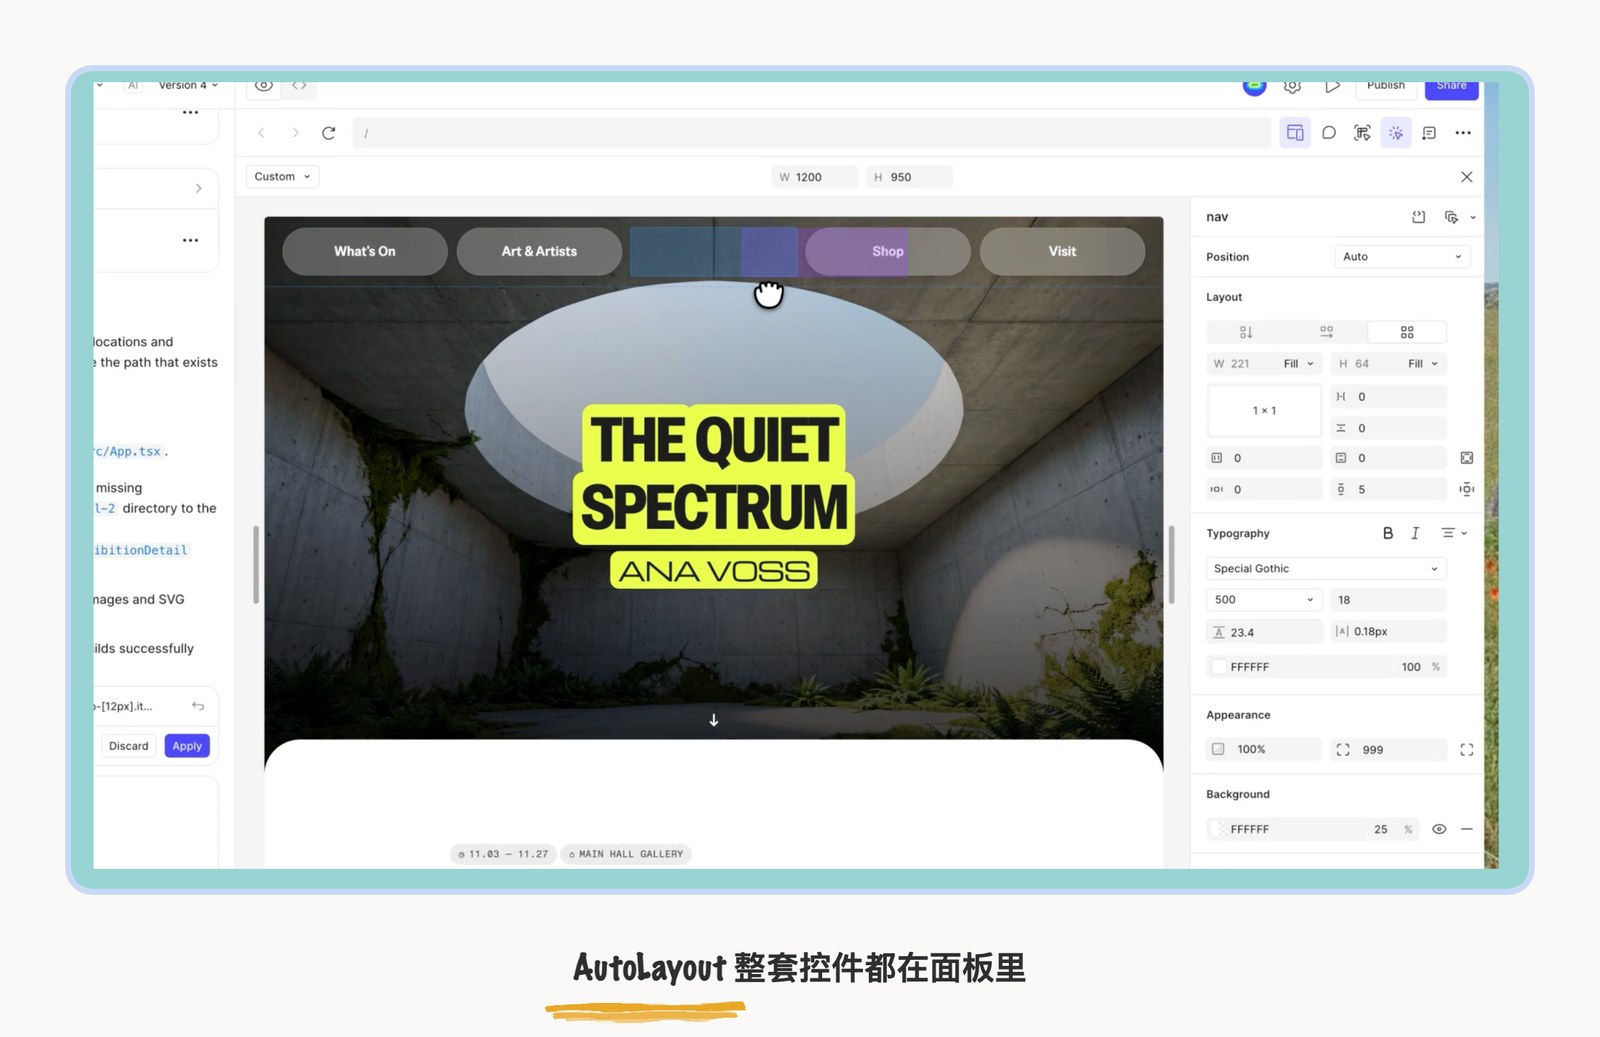
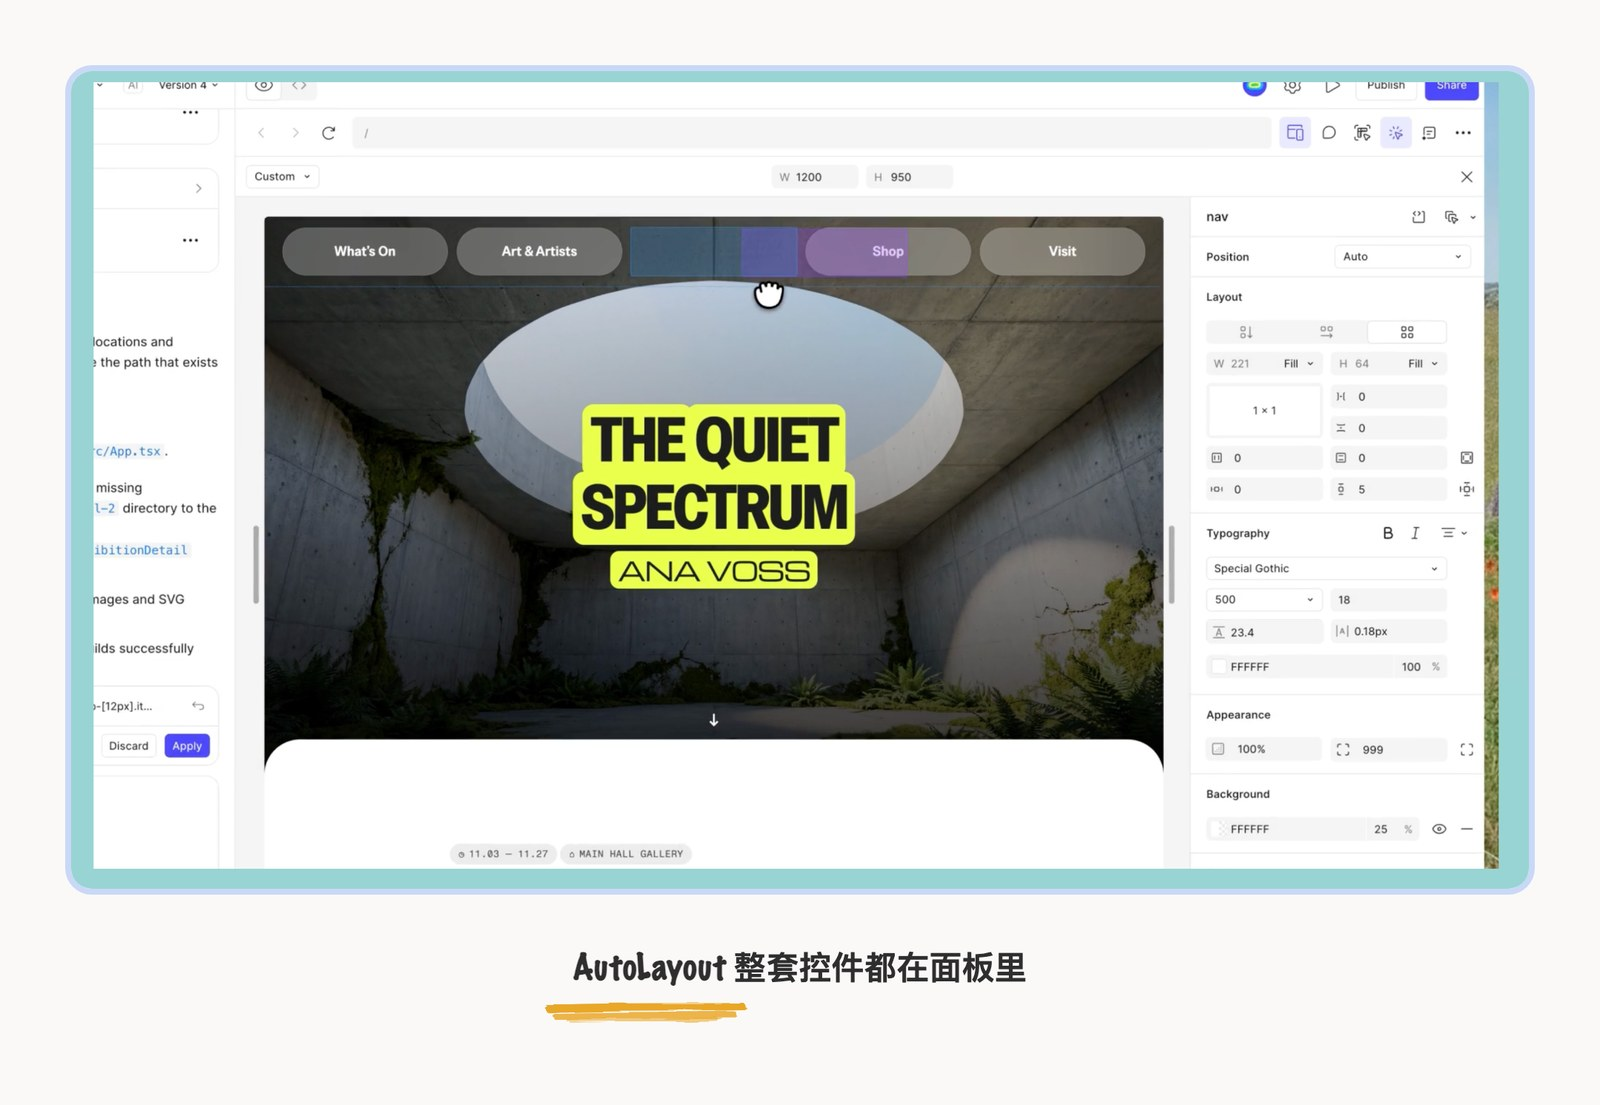
官方截图手账框:图注下方留白加大

diff --git a/docs/writing/article-figma-make-properties-panel.html b/docs/writing/article-figma-make-properties-panel.html
@@ -487,7 +487,7 @@
 <div class="section-head"><span class="icon-badge" style="background: rgba(46, 134, 184, 0.1);"><svg fill="none" height="32" viewBox="0 0 24 24" width="32" xmlns="http://www.w3.org/2000/svg"><path clip-rule="evenodd" d="M11.0257 7.12C10.0573 6.76317 9.25184 6.4664 8.6236 6.33307C7.99692 6.20007 7.2628 6.1658 6.7143 6.7143C6.16579 7.26281 6.20007 7.99692 6.33307 8.6236C6.46639 9.25185 6.76317 10.0573 7.11999 11.0257L8.41465 14.5398C8.58695 15.0077 8.74432 15.435 8.91702 15.7509C9.10197 16.0893 9.395 16.4715 9.91716 16.5861C10.4393 16.7008 10.8655 16.4766 11.1753 16.2469C11.4645 16.0324 11.7864 15.7104 12.1389 15.3578L12.3975 15.0992L14.3428 17.0445C14.458 17.1596 14.5694 17.271 14.6705 17.3592C14.7808 17.4555 14.9187 17.5604 15.0964 17.634C15.4697 17.7887 15.8892 17.7887 16.2625 17.634C16.4402 17.5604 16.5781 17.4555 16.6884 17.3592C16.7895 17.271 16.9009 17.1596 17.0161 17.0445L17.0445 17.0161C17.1596 16.901 17.271 16.7895 17.3592 16.6885C17.4555 16.5781 17.5604 16.4402 17.634 16.2625C17.7887 15.8892 17.7887 15.4697 17.634 15.0964C17.5604 14.9187 17.4554 14.7808 17.3592 14.6705C17.271 14.5694 17.1596 14.458 17.0445 14.3428L15.0992 12.3975L15.3578 12.1389C15.7104 11.7864 16.0324 11.4645 16.2469 11.1753C16.4766 10.8656 16.7008 10.4393 16.5861 9.91717C16.4715 9.39501 16.0893 9.10197 15.7509 8.91702C15.435 8.74433 15.0077 8.58696 14.5398 8.41465L11.0257 7.12ZM7.75487 7.83859C7.76267 7.78024 7.77422 7.77528 7.77496 7.77496C7.77527 7.77422 7.78024 7.76268 7.83858 7.75487C7.9187 7.74415 8.06358 7.74763 8.3122 7.80039C8.82107 7.90839 9.52357 8.16514 10.566 8.5492L13.9717 9.80395C14.5057 10.0007 14.8252 10.1205 15.0315 10.2332C15.0433 10.2397 15.0541 10.2458 15.0639 10.2515C15.0574 10.2608 15.0501 10.2709 15.0421 10.2817C14.9021 10.4705 14.6622 10.7132 14.2598 11.1156L13.5082 11.8672C13.2153 12.1601 13.2153 12.635 13.5082 12.9279L15.9696 15.3893C16.1043 15.524 16.1785 15.5987 16.2288 15.6565C16.237 15.6659 16.2434 15.6735 16.2482 15.6795C16.2434 15.6854 16.237 15.6931 16.2288 15.7024C16.1785 15.7602 16.1043 15.8349 15.9696 15.9696C15.8349 16.1043 15.7602 16.1785 15.7024 16.2288C15.6976 16.2331 15.6932 16.2368 15.6892 16.2401C15.6856 16.2432 15.6823 16.2459 15.6795 16.2482C15.6735 16.2434 15.6659 16.237 15.6565 16.2288C15.5987 16.1785 15.524 16.1043 15.3893 15.9696L12.9279 13.5082C12.635 13.2153 12.1601 13.2153 11.8672 13.5082L11.1156 14.2598C10.7132 14.6622 10.4705 14.9021 10.2817 15.0421C10.2709 15.0501 10.2608 15.0574 10.2515 15.0639C10.2458 15.0541 10.2397 15.0433 10.2332 15.0315C10.1205 14.8252 10.0007 14.5057 9.80394 13.9718L8.5492 10.566C8.16514 9.52357 7.90838 8.82107 7.80038 8.3122C7.74762 8.06359 7.74414 7.9187 7.75487 7.83859Z" fill="#2E86B8" fill-rule="evenodd"></path><path clip-rule="evenodd" d="M12.0574 1.25H11.9426C9.63424 1.24999 7.82519 1.24998 6.41371 1.43975C4.96897 1.63399 3.82895 2.03933 2.93414 2.93414C2.03933 3.82895 1.63399 4.96897 1.43975 6.41371C1.24998 7.82519 1.24999 9.63422 1.25 11.9426V12.0574C1.24999 14.3658 1.24998 16.1748 1.43975 17.5863C1.63399 19.031 2.03933 20.1711 2.93414 21.0659C3.82895 21.9607 4.96897 22.366 6.41371 22.5603C7.82519 22.75 9.63423 22.75 11.9426 22.75H12.0574C14.3658 22.75 16.1748 22.75 17.5863 22.5603C19.031 22.366 20.1711 21.9607 21.0659 21.0659C21.9607 20.1711 22.366 19.031 22.5603 17.5863C22.75 16.1748 22.75 14.3658 22.75 12.0574V11.9426C22.75 9.63423 22.75 7.82519 22.5603 6.41371C22.366 4.96897 21.9607 3.82895 21.0659 2.93414C20.1711 2.03933 19.031 1.63399 17.5863 1.43975C16.1748 1.24998 14.3658 1.24999 12.0574 1.25ZM3.9948 3.9948C4.56445 3.42514 5.33517 3.09825 6.61358 2.92637C7.91356 2.75159 9.62177 2.75 12 2.75C14.3782 2.75 16.0864 2.75159 17.3864 2.92637C18.6648 3.09825 19.4355 3.42514 20.0052 3.9948C20.5749 4.56445 20.9018 5.33517 21.0736 6.61358C21.2484 7.91356 21.25 9.62177 21.25 12C21.25 14.3782 21.2484 16.0864 21.0736 17.3864C20.9018 18.6648 20.5749 19.4355 20.0052 20.0052C19.4355 20.5749 18.6648 20.9018 17.3864 21.0736C16.0864 21.2484 14.3782 21.25 12 21.25C9.62177 21.25 7.91356 21.2484 6.61358 21.0736C5.33517 20.9018 4.56445 20.5749 3.9948 20.0052C3.42514 19.4355 3.09825 18.6648 2.92637 17.3864C2.75159 16.0864 2.75 14.3782 2.75 12C2.75 9.62177 2.75159 7.91356 2.92637 6.61358C3.09825 5.33517 3.42514 4.56445 3.9948 3.9948Z" fill="#2E86B8" fill-rule="evenodd"></path></svg></span><h2 style="color: #2E86B8;">增加属性面板进行精确编辑</h2></div>
 <p>延续 design 模式下的调参习惯，直接给 Make 加上精确的操作目标，省掉了文字 prompt 需要的搜索和猜测。具体操作是右上角工具栏点 "Edit"，右侧弹出面板上都是常见参数操作方式和 Figma Design 里基本一样。并且从代码角度，视觉上构建的内容和实际发布的内容一样。</p>
 <img alt="选中 div 容器，右侧属性面板里直接改 gap 值" src="assets/figma-make-properties-panel/make-properties-panel-ui.jpg"/><div class="img-caption">选中 div 容器，右侧属性面板里直接改 gap 值</div>
-<p>画布上的 AutoLayout 也一起搬进来了。比如选中一个 nav 容器，Position 直接给到 Auto，排布方向、间距、padding 逐项可调，宽高能选 Fill 或 Hug，往下还有 Typography 和 Background 这些分组，字体、字号、行距、透明度都是 Design 里熟悉的那套控件。设计师在 Design 里养成的布局手感，到 Make 里不用重新学一遍。</p>
+<p>画布上的 AutoLayout 也一起搬进来了。这是我最惊呼的一个功能！AI 时代怎么能抛弃手搓手艺呢？比如选中一个 nav 容器，Position 直接给到 Auto，排布方向、间距、padding 逐项可调，宽高能选 Fill 或 Hug，往下还有 Typography 和 Background 这些分组，字体、字号、行距、透明度都是 Design 里熟悉的那套控件。设计师在 Design 里养成的布局手感，到 Make 里不用重新学一遍。</p>
 <img alt="Make 里选中 nav，AutoLayout 的方向间距和 Fill / Hug 都在面板里" src="assets/figma-make-properties-panel/autolayout-ui.jpg"/><div class="img-caption">Make 里选中 nav，AutoLayout 的方向间距和 Fill / Hug 都在面板里</div>
 <p>还有一个新功能是标注功能。在工具栏选 "Annotate for agent"，直接在画布上选择区域 prompt 式交互，比如 "hover 时缩略图微微放大、松手恢复，动效采用 ease out"，agent 就能读取标记的精确位置修改元素。这种做法</p>
 <img alt="画布上圈选区域，编号注释直接写给 agent" src="assets/figma-make-properties-panel/make-annotations-ui.jpg"/><div class="img-caption">画布上圈选区域，编号注释直接写给 agent</div>
